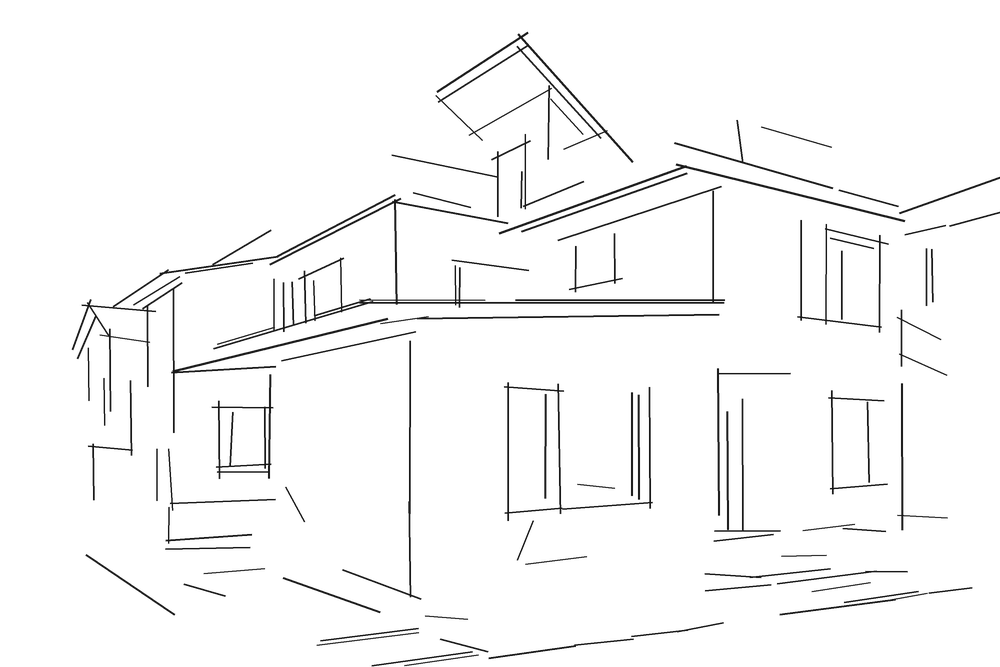
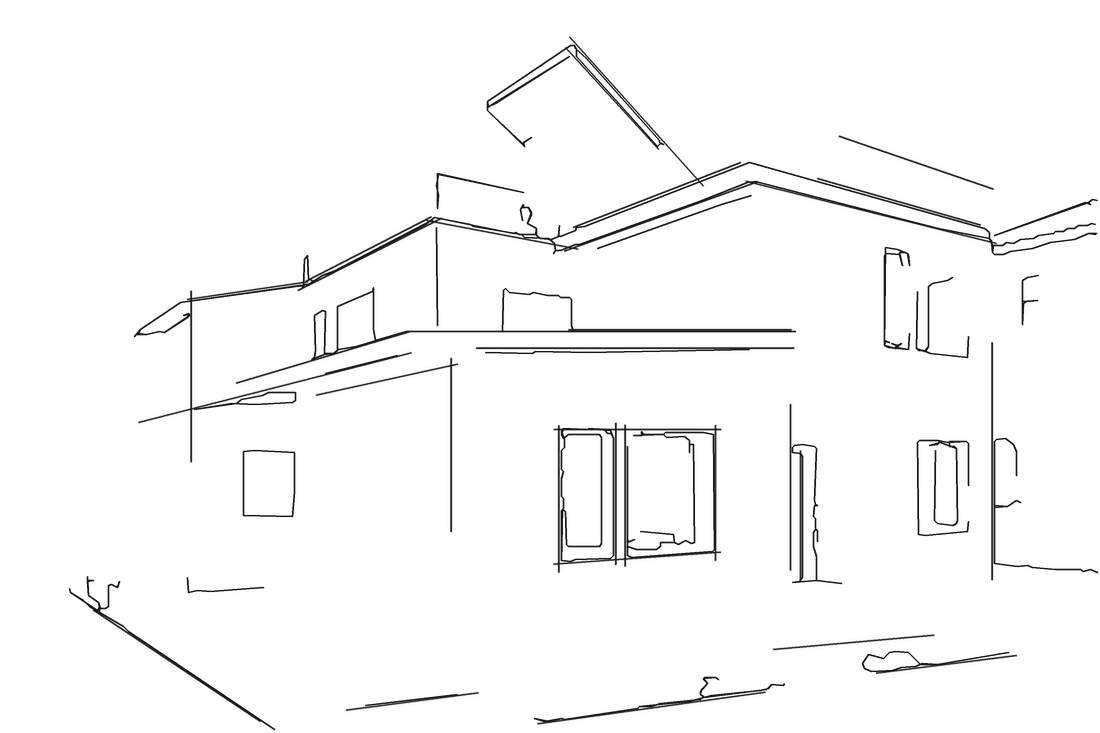
Section cut: steadier contour tracing; one credited public-domain section in the homepage flow

diff --git a/zh/index.html b/zh/index.html
@@ -23,14 +23,15 @@
 
 <section class="grid cut-intro"><p class="lede">洛杉矶的建筑设计师。住宅和小型商业项目全程由我负责；我最在意的，是建成之后人在里面怎么生活。</p><p class="caps mute hint">光标划过线稿，剖开看原图<br><a class="u" href="styles.html">线稿风格参考</a></p></section>
 
-<section class="field" style="--h:179.66vw">
-  <a class="mark cut" style="--s:1.224;--z:1;--x:-37.08vw;--y:0.00vw" href="798-artist-district.html"><span class="cv" style="aspect-ratio:1.4993"><img class="ph" src="../img/798-artist-district/img_00_cover-s.jpg" alt="" loading="lazy"><img class="ink" src="../img/ink/798-artist-district.png" alt="798 艺术家生活集" loading="lazy"><span class="sl" aria-hidden="true"><i>A</i><i>A</i></span></span><span class="cap">798 艺术家生活集 <span class="mute">2018</span></span></a>
-  <a class="mark cut" style="--s:1.224;--z:1;--x:5.92vw;--y:7.00vw" href="downstairs-bazaar.html"><span class="cv" style="aspect-ratio:1.4993"><img class="ph" src="../img/downstairs-bazaar/img_00_cover-s.jpg" alt="" loading="lazy"><img class="ink" src="../img/ink/downstairs-bazaar.png" alt="楼下生活集" loading="lazy"><span class="sl" aria-hidden="true"><i>A</i><i>A</i></span></span><span class="cap">楼下生活集 <span class="mute">2020</span></span></a>
-  <a class="mark cut" style="--s:1.334;--z:1;--x:-13.34vw;--y:42.51vw" href="river-lantern.html"><span class="cv" style="aspect-ratio:1.7794"><img class="ph" src="../img/river-lantern/img_05_photo-s.jpg" alt="" loading="lazy"><img class="ink" src="../img/ink/river-lantern.png" alt="河灯" loading="lazy"><span class="sl" aria-hidden="true"><i>A</i><i>A</i></span></span><span class="cap">河灯 <span class="mute">2020</span></span></a>
-  <a class="mark cut" style="--s:1.155;--z:1;--x:-33.28vw;--y:73.12vw" href="westfall-hillside-house.html"><span class="cv" style="aspect-ratio:1.3333"><img class="ph" src="../img/westfall-hillside-house/img_00_cover-s.jpg" alt="" loading="lazy"><img class="ink" src="../img/ink/westfall-hillside-house.png" alt="西崖山地别墅" loading="lazy"><span class="sl" aria-hidden="true"><i>A</i><i>A</i></span></span><span class="cap">西崖山地别墅 <span class="mute">2025</span></span></a>
-  <a class="mark cut" style="--s:1.224;--z:1;--x:6.92vw;--y:80.69vw" href="ashton-house-remodel.html"><span class="cv" style="aspect-ratio:1.4993"><img class="ph" src="../img/ashton-house-remodel/img_00_cover-s.jpg" alt="" loading="lazy"><img class="ink" src="../img/ink/ashton-house-remodel.png" alt="阿什顿街住宅翻新" loading="lazy"><span class="sl" aria-hidden="true"><i>A</i><i>A</i></span></span><span class="cap">阿什顿街住宅翻新 <span class="mute">2025</span></span></a>
-  <a class="mark cut" style="--s:2.020;--z:1;--x:-25.73vw;--y:123.29vw" href="pku-marxism-school-building.html"><span class="cv" style="aspect-ratio:4.0816"><img class="ph" src="../img/pku-teaching-building/dwg_south-elev-s.jpg" alt="" loading="lazy"><img class="ink" src="../img/ink/pku-teaching-building.png" alt="北京大学马克思主义学院教学楼" loading="lazy"><span class="sl" aria-hidden="true"><i>A</i><i>A</i></span></span><span class="cap">北京大学马克思主义学院教学楼 <span class="mute">2019</span></span></a>
-  <a class="mark cut" style="--s:1.224;--z:1;--x:-35.58vw;--y:160.87vw" href="beck-corner-apartment.html"><span class="cv" style="aspect-ratio:1.4993"><img class="ph" src="../img/beck-corner-apartment/img_00_cover-s.jpg" alt="" loading="lazy"><img class="ink" src="../img/ink/beck-corner-apartment.png" alt="贝克街保障住房" loading="lazy"><span class="sl" aria-hidden="true"><i>A</i><i>A</i></span></span><span class="cap">贝克街保障住房 <span class="mute">2023–2025</span></span></a>
+<section class="field" style="--h:179.14vw">
+  <a class="mark cut" style="--s:1.225;--z:1;--x:-37.09vw;--y:0.00vw" href="798-artist-district.html"><span class="cv" style="aspect-ratio:1.5007"><img class="ph" src="../img/798-artist-district/img_00_cover-s.jpg" alt="" loading="lazy"><img class="ink" src="../img/ink/798-artist-district.png" alt="798 艺术家生活集" loading="lazy"><span class="sl" aria-hidden="true"><i>A</i><i>A</i></span></span><span class="cap">798 艺术家生活集 <span class="mute">2018</span></span></a>
+  <div class="mark cut refmark" style="--s:1.446;--z:1;--x:3.37vw;--y:8.43vw"><span class="cv" style="aspect-ratio:2.0909"><img class="ph" src="../img/refs/schinkel_scan.jpg" alt="" loading="lazy"><img class="ink" src="../img/refs/schinkel_ink.png" alt="" loading="lazy"><span class="sl" aria-hidden="true"><i>A</i><i>A</i></span></span><span class="cap"><span class="mute">风格参考，非本人作品:</span> <a class="u" href="styles.html">卡尔·弗里德里希·申克尔, 1824</a></span></div>
+  <a class="mark cut" style="--s:1.225;--z:1;--x:-12.09vw;--y:42.68vw" href="downstairs-bazaar.html"><span class="cv" style="aspect-ratio:1.5007"><img class="ph" src="../img/downstairs-bazaar/img_00_cover-s.jpg" alt="" loading="lazy"><img class="ink" src="../img/ink/downstairs-bazaar.png" alt="楼下生活集" loading="lazy"><span class="sl" aria-hidden="true"><i>A</i><i>A</i></span></span><span class="cap">楼下生活集 <span class="mute">2020</span></span></a>
+  <a class="mark cut" style="--s:1.334;--z:1;--x:-35.34vw;--y:75.80vw" href="river-lantern.html"><span class="cv" style="aspect-ratio:1.7794"><img class="ph" src="../img/river-lantern/img_05_photo-s.jpg" alt="" loading="lazy"><img class="ink" src="../img/ink/river-lantern.png" alt="河灯" loading="lazy"><span class="sl" aria-hidden="true"><i>A</i><i>A</i></span></span><span class="cap">河灯 <span class="mute">2020</span></span></a>
+  <a class="mark cut" style="--s:1.155;--z:1;--x:7.72vw;--y:81.46vw" href="westfall-hillside-house.html"><span class="cv" style="aspect-ratio:1.3333"><img class="ph" src="../img/westfall-hillside-house/img_00_cover-s.jpg" alt="" loading="lazy"><img class="ink" src="../img/ink/westfall-hillside-house.png" alt="西崖山地别墅" loading="lazy"><span class="sl" aria-hidden="true"><i>A</i><i>A</i></span></span><span class="cap">西崖山地别墅 <span class="mute">2025</span></span></a>
+  <a class="mark cut" style="--s:1.225;--z:1;--x:-16.59vw;--y:112.06vw" href="ashton-house-remodel.html"><span class="cv" style="aspect-ratio:1.5007"><img class="ph" src="../img/ashton-house-remodel/img_00_cover-s.jpg" alt="" loading="lazy"><img class="ink" src="../img/ink/ashton-house-remodel.png" alt="阿什顿街住宅翻新" loading="lazy"><span class="sl" aria-hidden="true"><i>A</i><i>A</i></span></span><span class="cap">阿什顿街住宅翻新 <span class="mute">2025</span></span></a>
+  <a class="mark cut" style="--s:2.022;--z:1;--x:-44.76vw;--y:157.07vw" href="pku-marxism-school-building.html"><span class="cv" style="aspect-ratio:4.0892"><img class="ph" src="../img/pku-teaching-building/dwg_south-elev-s.jpg" alt="" loading="lazy"><img class="ink" src="../img/ink/pku-teaching-building.png" alt="北京大学马克思主义学院教学楼" loading="lazy"><span class="sl" aria-hidden="true"><i>A</i><i>A</i></span></span><span class="cap">北京大学马克思主义学院教学楼 <span class="mute">2019</span></span></a>
+  <a class="mark cut" style="--s:1.225;--z:1;--x:11.41vw;--y:160.37vw" href="beck-corner-apartment.html"><span class="cv" style="aspect-ratio:1.5007"><img class="ph" src="../img/beck-corner-apartment/img_00_cover-s.jpg" alt="" loading="lazy"><img class="ink" src="../img/ink/beck-corner-apartment.png" alt="贝克街保障住房" loading="lazy"><span class="sl" aria-hidden="true"><i>A</i><i>A</i></span></span><span class="cap">贝克街保障住房 <span class="mute">2023–2025</span></span></a>
 </section>
 
 <section class="grid closing">

diff --git a/index.html b/index.html
@@ -23,14 +23,15 @@
 
 <section class="grid cut-intro"><p class="lede">Architectural designer in Los Angeles. I run residential and small commercial projects end to end and care most about how people actually live in what gets built.</p><p class="caps mute hint">Move across a drawing to cut it<br><a class="u" href="styles.html">Line style references</a></p></section>
 
-<section class="field" style="--h:179.66vw">
-  <a class="mark cut" style="--s:1.224;--z:1;--x:-37.08vw;--y:0.00vw" href="798-artist-district.html"><span class="cv" style="aspect-ratio:1.4993"><img class="ph" src="img/798-artist-district/img_00_cover-s.jpg" alt="" loading="lazy"><img class="ink" src="img/ink/798-artist-district.png" alt="The Collage Community" loading="lazy"><span class="sl" aria-hidden="true"><i>A</i><i>A</i></span></span><span class="cap">The Collage Community <span class="mute">2018</span></span></a>
-  <a class="mark cut" style="--s:1.224;--z:1;--x:5.92vw;--y:7.00vw" href="downstairs-bazaar.html"><span class="cv" style="aspect-ratio:1.4993"><img class="ph" src="img/downstairs-bazaar/img_00_cover-s.jpg" alt="" loading="lazy"><img class="ink" src="img/ink/downstairs-bazaar.png" alt="Downstairs Bazaar" loading="lazy"><span class="sl" aria-hidden="true"><i>A</i><i>A</i></span></span><span class="cap">Downstairs Bazaar <span class="mute">2020</span></span></a>
-  <a class="mark cut" style="--s:1.334;--z:1;--x:-13.34vw;--y:42.51vw" href="river-lantern.html"><span class="cv" style="aspect-ratio:1.7794"><img class="ph" src="img/river-lantern/img_05_photo-s.jpg" alt="" loading="lazy"><img class="ink" src="img/ink/river-lantern.png" alt="River Lantern" loading="lazy"><span class="sl" aria-hidden="true"><i>A</i><i>A</i></span></span><span class="cap">River Lantern <span class="mute">2020</span></span></a>
-  <a class="mark cut" style="--s:1.155;--z:1;--x:-33.28vw;--y:73.12vw" href="westfall-hillside-house.html"><span class="cv" style="aspect-ratio:1.3333"><img class="ph" src="img/westfall-hillside-house/img_00_cover-s.jpg" alt="" loading="lazy"><img class="ink" src="img/ink/westfall-hillside-house.png" alt="Westfall Hillside House" loading="lazy"><span class="sl" aria-hidden="true"><i>A</i><i>A</i></span></span><span class="cap">Westfall Hillside House <span class="mute">2025</span></span></a>
-  <a class="mark cut" style="--s:1.224;--z:1;--x:6.92vw;--y:80.69vw" href="ashton-house-remodel.html"><span class="cv" style="aspect-ratio:1.4993"><img class="ph" src="img/ashton-house-remodel/img_00_cover-s.jpg" alt="" loading="lazy"><img class="ink" src="img/ink/ashton-house-remodel.png" alt="Ashton House Remodel" loading="lazy"><span class="sl" aria-hidden="true"><i>A</i><i>A</i></span></span><span class="cap">Ashton House Remodel <span class="mute">2025</span></span></a>
-  <a class="mark cut" style="--s:2.020;--z:1;--x:-25.73vw;--y:123.29vw" href="pku-marxism-school-building.html"><span class="cv" style="aspect-ratio:4.0816"><img class="ph" src="img/pku-teaching-building/dwg_south-elev-s.jpg" alt="" loading="lazy"><img class="ink" src="img/ink/pku-teaching-building.png" alt="Marxism School Building, PKU" loading="lazy"><span class="sl" aria-hidden="true"><i>A</i><i>A</i></span></span><span class="cap">Marxism School Building, PKU <span class="mute">2019</span></span></a>
-  <a class="mark cut" style="--s:1.224;--z:1;--x:-35.58vw;--y:160.87vw" href="beck-corner-apartment.html"><span class="cv" style="aspect-ratio:1.4993"><img class="ph" src="img/beck-corner-apartment/img_00_cover-s.jpg" alt="" loading="lazy"><img class="ink" src="img/ink/beck-corner-apartment.png" alt="Beck Corner Apartment" loading="lazy"><span class="sl" aria-hidden="true"><i>A</i><i>A</i></span></span><span class="cap">Beck Corner Apartment <span class="mute">2023–2025</span></span></a>
+<section class="field" style="--h:179.14vw">
+  <a class="mark cut" style="--s:1.225;--z:1;--x:-37.09vw;--y:0.00vw" href="798-artist-district.html"><span class="cv" style="aspect-ratio:1.5007"><img class="ph" src="img/798-artist-district/img_00_cover-s.jpg" alt="" loading="lazy"><img class="ink" src="img/ink/798-artist-district.png" alt="The Collage Community" loading="lazy"><span class="sl" aria-hidden="true"><i>A</i><i>A</i></span></span><span class="cap">The Collage Community <span class="mute">2018</span></span></a>
+  <div class="mark cut refmark" style="--s:1.446;--z:1;--x:3.37vw;--y:8.43vw"><span class="cv" style="aspect-ratio:2.0909"><img class="ph" src="img/refs/schinkel_scan.jpg" alt="" loading="lazy"><img class="ink" src="img/refs/schinkel_ink.png" alt="" loading="lazy"><span class="sl" aria-hidden="true"><i>A</i><i>A</i></span></span><span class="cap"><span class="mute">Style reference, not my work:</span> <a class="u" href="styles.html">Karl Friedrich Schinkel, 1824</a></span></div>
+  <a class="mark cut" style="--s:1.225;--z:1;--x:-12.09vw;--y:42.68vw" href="downstairs-bazaar.html"><span class="cv" style="aspect-ratio:1.5007"><img class="ph" src="img/downstairs-bazaar/img_00_cover-s.jpg" alt="" loading="lazy"><img class="ink" src="img/ink/downstairs-bazaar.png" alt="Downstairs Bazaar" loading="lazy"><span class="sl" aria-hidden="true"><i>A</i><i>A</i></span></span><span class="cap">Downstairs Bazaar <span class="mute">2020</span></span></a>
+  <a class="mark cut" style="--s:1.334;--z:1;--x:-35.34vw;--y:75.80vw" href="river-lantern.html"><span class="cv" style="aspect-ratio:1.7794"><img class="ph" src="img/river-lantern/img_05_photo-s.jpg" alt="" loading="lazy"><img class="ink" src="img/ink/river-lantern.png" alt="River Lantern" loading="lazy"><span class="sl" aria-hidden="true"><i>A</i><i>A</i></span></span><span class="cap">River Lantern <span class="mute">2020</span></span></a>
+  <a class="mark cut" style="--s:1.155;--z:1;--x:7.72vw;--y:81.46vw" href="westfall-hillside-house.html"><span class="cv" style="aspect-ratio:1.3333"><img class="ph" src="img/westfall-hillside-house/img_00_cover-s.jpg" alt="" loading="lazy"><img class="ink" src="img/ink/westfall-hillside-house.png" alt="Westfall Hillside House" loading="lazy"><span class="sl" aria-hidden="true"><i>A</i><i>A</i></span></span><span class="cap">Westfall Hillside House <span class="mute">2025</span></span></a>
+  <a class="mark cut" style="--s:1.225;--z:1;--x:-16.59vw;--y:112.06vw" href="ashton-house-remodel.html"><span class="cv" style="aspect-ratio:1.5007"><img class="ph" src="img/ashton-house-remodel/img_00_cover-s.jpg" alt="" loading="lazy"><img class="ink" src="img/ink/ashton-house-remodel.png" alt="Ashton House Remodel" loading="lazy"><span class="sl" aria-hidden="true"><i>A</i><i>A</i></span></span><span class="cap">Ashton House Remodel <span class="mute">2025</span></span></a>
+  <a class="mark cut" style="--s:2.022;--z:1;--x:-44.76vw;--y:157.07vw" href="pku-marxism-school-building.html"><span class="cv" style="aspect-ratio:4.0892"><img class="ph" src="img/pku-teaching-building/dwg_south-elev-s.jpg" alt="" loading="lazy"><img class="ink" src="img/ink/pku-teaching-building.png" alt="Marxism School Building, PKU" loading="lazy"><span class="sl" aria-hidden="true"><i>A</i><i>A</i></span></span><span class="cap">Marxism School Building, PKU <span class="mute">2019</span></span></a>
+  <a class="mark cut" style="--s:1.225;--z:1;--x:11.41vw;--y:160.37vw" href="beck-corner-apartment.html"><span class="cv" style="aspect-ratio:1.5007"><img class="ph" src="img/beck-corner-apartment/img_00_cover-s.jpg" alt="" loading="lazy"><img class="ink" src="img/ink/beck-corner-apartment.png" alt="Beck Corner Apartment" loading="lazy"><span class="sl" aria-hidden="true"><i>A</i><i>A</i></span></span><span class="cap">Beck Corner Apartment <span class="mute">2023–2025</span></span></a>
 </section>
 
 <section class="grid closing">

diff --git a/src/style.css b/src/style.css
@@ -284,3 +284,5 @@ h1, h2 { font: inherit; margin: 0; }
 .refs .ref { margin: 0; }
 .refs .mark { width: min(78vw, calc(52vh * var(--s) * var(--s))); }
 .refs figcaption { padding-top: 34px; font-size: 13px; text-align: center; }
+/* 首页里那张风格参考：说明一直显示 */
+.mark.cut.refmark .cap { opacity: 1; }

diff --git a/style.css b/style.css
@@ -284,3 +284,5 @@ h1, h2 { font: inherit; margin: 0; }
 .refs .ref { margin: 0; }
 .refs .mark { width: min(78vw, calc(52vh * var(--s) * var(--s))); }
 .refs figcaption { padding-top: 34px; font-size: 13px; text-align: center; }
+/* 首页里那张风格参考：说明一直显示 */
+.mark.cut.refmark .cap { opacity: 1; }

diff --git a/src/ink2.py b/src/ink2.py
@@ -1,0 +1,160 @@
+"""Contour ink tracing (exp branches only), second approach.
+Straight structural lines (LSD, merged, snapped, joined at corners) plus
+skeletonised XDoG contours simplified to polylines, all at one steady pen weight.
+Foliage (green, saturated areas) is left out, as in a measured drawing."""
+import sys, math
+import numpy as np, cv2
+from PIL import Image, ImageDraw
+from skimage.morphology import skeletonize
+INK=(22,22,22)
+
+def lines_of(g, W):
+    H=g.shape[0]
+    lsd=cv2.createLineSegmentDetector(cv2.LSD_REFINE_STD)
+    L=lsd.detect(g)[0]
+    return [] if L is None else L.reshape(-1,4)
+
+def contrast(gf,W,H,x0,y0,x1,y1):
+    n=np.array([y0-y1,x1-x0]);l=np.hypot(*n) or 1;n=n/l*3
+    ts=np.linspace(.15,.85,9);xs=x0+(x1-x0)*ts;ys=y0+(y1-y0)*ts
+    def s(dx,dy):
+        return gf[np.clip((ys+dy).astype(int),0,H-1),np.clip((xs+dx).astype(int),0,W-1)]
+    return float(np.abs(s(*n)-s(*-n)).mean())
+
+def merge(items, gap, dang=2.5, drho=3):
+    items=sorted(items,key=lambda r:-r[5]); used=[False]*len(items); out=[]
+    for i,a in enumerate(items):
+        if used[i]: continue
+        th=a[0];ux,uy=math.cos(th),math.sin(th);nx,ny=-uy,ux
+        rho=a[1]*nx+a[2]*ny; ts=[a[1]*ux+a[2]*uy,a[3]*ux+a[4]*uy];t0,t1=min(ts),max(ts);used[i]=True;cov=a[5]
+        ch=True
+        while ch:
+            ch=False
+            for j,b in enumerate(items):
+                if used[j]: continue
+                d=abs(b[0]-th);d=min(d,math.pi-d)
+                if d>math.radians(dang): continue
+                if abs(b[1]*nx+b[2]*ny-rho)>drho or abs(b[3]*nx+b[4]*ny-rho)>drho: continue
+                q=[b[1]*ux+b[2]*uy,b[3]*ux+b[4]*uy]
+                if min(q)>t1+gap or max(q)<t0-gap: continue
+                t0,t1=min(t0,min(q)),max(t1,max(q));used[j]=True;cov+=b[5];ch=True
+        out.append([th,rho*nx+t0*ux,rho*ny+t0*uy,rho*nx+t1*ux,rho*ny+t1*uy,t1-t0,cov])
+    return out
+
+def inter(a,b):
+    x1,y1,x2,y2=a[:4];x3,y3,x4,y4=b[:4]
+    d=(x1-x2)*(y3-y4)-(y1-y2)*(x3-x4)
+    if abs(d)<1e-6: return None
+    t=((x1-x3)*(y3-y4)-(y1-y3)*(x3-x4))/d
+    u=-((x1-x2)*(y1-y3)-(y1-y2)*(x1-x3))/d
+    return t,u,(x1+t*(x2-x1),y1+t*(y2-y1))
+
+def trace(src,out,W=1000,min_len=.045,cthr=18,snap=.03,weight=1.5,seed=5,maxn=140):
+    rng=np.random.default_rng(seed)
+    im=Image.open(src).convert('RGB');w0,h0=im.size;im=im.resize((W,round(h0*W/w0)),Image.LANCZOS)
+    g=cv2.cvtColor(np.asarray(im),cv2.COLOR_RGB2GRAY);g=cv2.bilateralFilter(g,9,50,9);H=g.shape[0];gf=g.astype(np.float32)
+    raw=[]
+    for x0,y0,x1,y1 in lines_of(g,W):
+        l=math.hypot(x1-x0,y1-y0)
+        if l<10: continue
+        raw.append([math.atan2(y1-y0,x1-x0)%math.pi,x0,y0,x1,y1,l])
+    m=merge(raw,.035*W)
+    segs=[]
+    for th,x0,y0,x1,y1,l,cov in m:
+        if l<min_len*W or cov/l<.55: continue
+        # snap verticals (architectural convention)
+        if abs(th-math.pi/2)<math.radians(3):
+            mx=(x0+x1)/2;x0=x1=mx
+        elif th<math.radians(2) or th>math.pi-math.radians(2):
+            my=(y0+y1)/2;y0=y1=my
+        c=contrast(gf,W,H,x0,y0,x1,y1)
+        if c<cthr: continue
+        segs.append([x0,y0,x1,y1,l,c])
+    segs.sort(key=lambda s:-s[4]*min(1,s[5]/60)); segs=segs[:maxn]
+    # thin crowded parallels
+    keep=[]
+    for s in segs:
+        th=math.atan2(s[3]-s[1],s[2]-s[0])%math.pi;mx,my=(s[0]+s[2])/2,(s[1]+s[3])/2;cr=0
+        for k in keep:
+            kt=math.atan2(k[3]-k[1],k[2]-k[0])%math.pi;d=abs(kt-th);d=min(d,math.pi-d)
+            if d<math.radians(4) and math.hypot((k[0]+k[2])/2-mx,(k[1]+k[3])/2-my)<.025*W+ .3*min(k[4],s[4]): cr+=1
+        if cr<2: keep.append(s)
+    segs=keep
+    # endpoint snapping: extend/trim each end to the nearest crossing line within reach
+    R=snap*W
+    for i,a in enumerate(segs):
+        L=math.hypot(a[2]-a[0],a[3]-a[1])
+        for end in (0,1):
+            best=None
+            for j,b in enumerate(segs):
+                if i==j: continue
+                r=inter(a,b)
+                if not r: continue
+                t,u,p=r
+                tt=t if end==1 else 1-t
+                # where along a the crossing sits relative to this end, in px
+                dist=(tt-1)*L
+                if not(-R*.6<dist<R): continue
+                Lb=b[4]; 
+                if not(-R/Lb<u<1+R/Lb): continue
+                ang=abs(math.atan2(b[3]-b[1],b[2]-b[0])-math.atan2(a[3]-a[1],a[2]-a[0]))%math.pi
+                if min(ang,math.pi-ang)<math.radians(20): continue
+                if best is None or abs(dist)<abs(best[0]): best=(dist,p)
+            if best:
+                if end==0: a[0],a[1]=best[1]
+                else: a[2],a[3]=best[1]
+    SS=3;cv=Image.new('L',(W*SS,H*SS),0);d=ImageDraw.Draw(cv)
+    for x0,y0,x1,y1,l,c in segs:
+        L=math.hypot(x1-x0,y1-y0) or 1;ux,uy=(x1-x0)/L,(y1-y0)/L
+        o0=4+rng.random()*5;o1=4+rng.random()*5
+        d.line([((x0-ux*o0)*SS,(y0-uy*o0)*SS),((x1+ux*o1)*SS,(y1+uy*o1)*SS)],fill=255,width=round(weight*SS))
+    a=cv.resize((W,H),Image.LANCZOS);rgba=Image.new('RGBA',(W,H),INK+(0,));rgba.putalpha(a);rgba.save(out,optimize=True)
+    return len(segs)
+def run(src,out,W=1100,sigma=1.1,p=24,eps=-0.015,minlen=70,weight=1.7,struct=True,veg=80,wig=14):
+    im=Image.open(src).convert('RGB');w0,h0=im.size;im=im.resize((W,round(h0*W/w0)),Image.LANCZOS)
+    a=np.asarray(im)
+    for _ in range(3): a=cv2.bilateralFilter(a,7,60,7)
+    a=cv2.pyrMeanShiftFiltering(a,10,22)
+    g=cv2.cvtColor(a,cv2.COLOR_RGB2GRAY)
+    g=cv2.createCLAHE(2.0,(8,8)).apply(g).astype(np.float32)/255
+    g1=cv2.GaussianBlur(g,(0,0),sigma);g2=cv2.GaussianBlur(g,(0,0),sigma*1.6)
+    d=(1+p)*g1-p*g2
+    ink=(d<eps)
+    sk=skeletonize(ink).astype(np.uint8)
+    n,lab,st,_=cv2.connectedComponentsWithStats(sk,8)
+    sk=np.isin(lab,[i for i in range(1,n) if st[i,4]>=minlen]).astype(np.uint8)
+    H=sk.shape[0];SS=3
+    # texture mask from the unsmoothed image: foliage / gravel are busy, walls are calm
+    hsv=cv2.cvtColor(np.asarray(im),cv2.COLOR_RGB2HSV)
+    busy=((hsv[...,0]>=22)&(hsv[...,0]<=95)&(hsv[...,1]>38)).astype(np.uint8)
+    busy=cv2.dilate(busy,np.ones((7,7),np.uint8))>0
+    cv=Image.new('L',(W*SS,H*SS),0);dr=ImageDraw.Draw(cv)
+    n,lab,st,_=cv2.connectedComponentsWithStats(sk,8)
+    for i in range(1,n):
+        m=(lab==i)
+        if busy[m].mean()>.6: continue
+        cs,_=cv2.findContours(m.astype(np.uint8),cv2.RETR_EXTERNAL,cv2.CHAIN_APPROX_NONE)
+        for c in cs:
+            ap=cv2.approxPolyDP(c,1.2,True)[:,0,:]
+            per=cv2.arcLength(c,True)/2
+            if len(ap)/max(per,1)*100>wig: continue
+            pts=[(float(x)*SS+SS/2,float(y)*SS+SS/2) for x,y in ap]
+            if len(pts)>1: dr.line(pts+[pts[0]],fill=255,width=round(weight*SS),joint='curve')
+    if struct:
+        import tempfile; tmp=tempfile.mktemp(suffix='.png')
+        trace(src,tmp,W=W,min_len=.1,weight=weight,maxn=60)
+        s=Image.open(tmp).split()[3].resize((W*SS,H*SS),Image.LANCZOS)
+        cv=Image.fromarray(np.maximum(np.asarray(cv),np.asarray(s)))
+    al=cv.resize((W,H),Image.LANCZOS)
+    o=Image.new('RGBA',(W,H),INK+(0,));o.putalpha(al);o.save(out,optimize=True)
+SETTINGS = {'westfall-hillside-house': dict(sigma=.9, eps=-.004, p=30, minlen=45, wig=16)}
+
+def batch():
+    import json, os
+    meta = json.load(open('assets/ink/meta.json'))
+    for folder, src in meta.items():
+        run(src, f'assets/ink/{folder}.png', **SETTINGS.get(folder, {}))
+        print(folder)
+
+if __name__ == '__main__':
+    batch()

diff --git a/build.py b/build.py
@@ -285,9 +285,21 @@ def home(lang):
     rank = lambda p: HOME_ORDER.index(p['slug']) if p['slug'] in HOME_ORDER else len(HOME_ORDER)
     shown = [(p, ink_of(p)) for p in sorted(PROJECTS, key=rank) if p['_any']]
     shown = [(p, k) for p, k in shown if k]
+    # 一张公有领域的大师剖面放进首页流里，示范目标线条；标明是占位参考、非本人作品
+    ref = REFS[0]; rf = ref_files(ref['key'])
+    shown.insert(1, (None, {'ar': rf['ar'], 'ink': rf['ink'], 'photo': {'small': rf['scan']}, 'ref': ref}))
     sizes = [(23 * k['ar'] ** .5, 23 * k['ar'] ** .5 / k['ar']) for p, k in shown]
     pos, field_h = home_layout(sizes)
     for (p, k), (x, y) in zip(shown, pos):
+        if p is None:
+            x_ = k['ref']
+            tag = 'Style reference, not my work' if lang == 'en' else '风格参考，非本人作品'
+            marks.append(f'  <div class="mark cut refmark" style="--s:{k["ar"] ** 0.5:.3f};--z:1;--x:{x:.2f}vw;--y:{y:.2f}vw">'
+                         f'<span class="cv" style="aspect-ratio:{k["ar"]:.4f}"><img class="ph" src="{r}{k["photo"]["small"]}" alt="" loading="lazy">'
+                         f'<img class="ink" src="{r}{k["ink"]}" alt="" loading="lazy">'
+                         f'<span class="sl" aria-hidden="true"><i>A</i><i>A</i></span></span>'
+                         f'<span class="cap"><span class="mute">{tag}:</span> <a class="u" href="styles.html">{E(x_["author"][0 if lang == "en" else 1])}, {x_["year"]}</a></span></div>')
+            continue
         title = E(T(p['title'], lang))
         ph = k['photo']
         marks.append(f'  <a class="mark cut" style="--s:{k["ar"] ** 0.5:.3f};--z:1;--x:{x:.2f}vw;--y:{y:.2f}vw" href="{p["slug"]}.html">'
